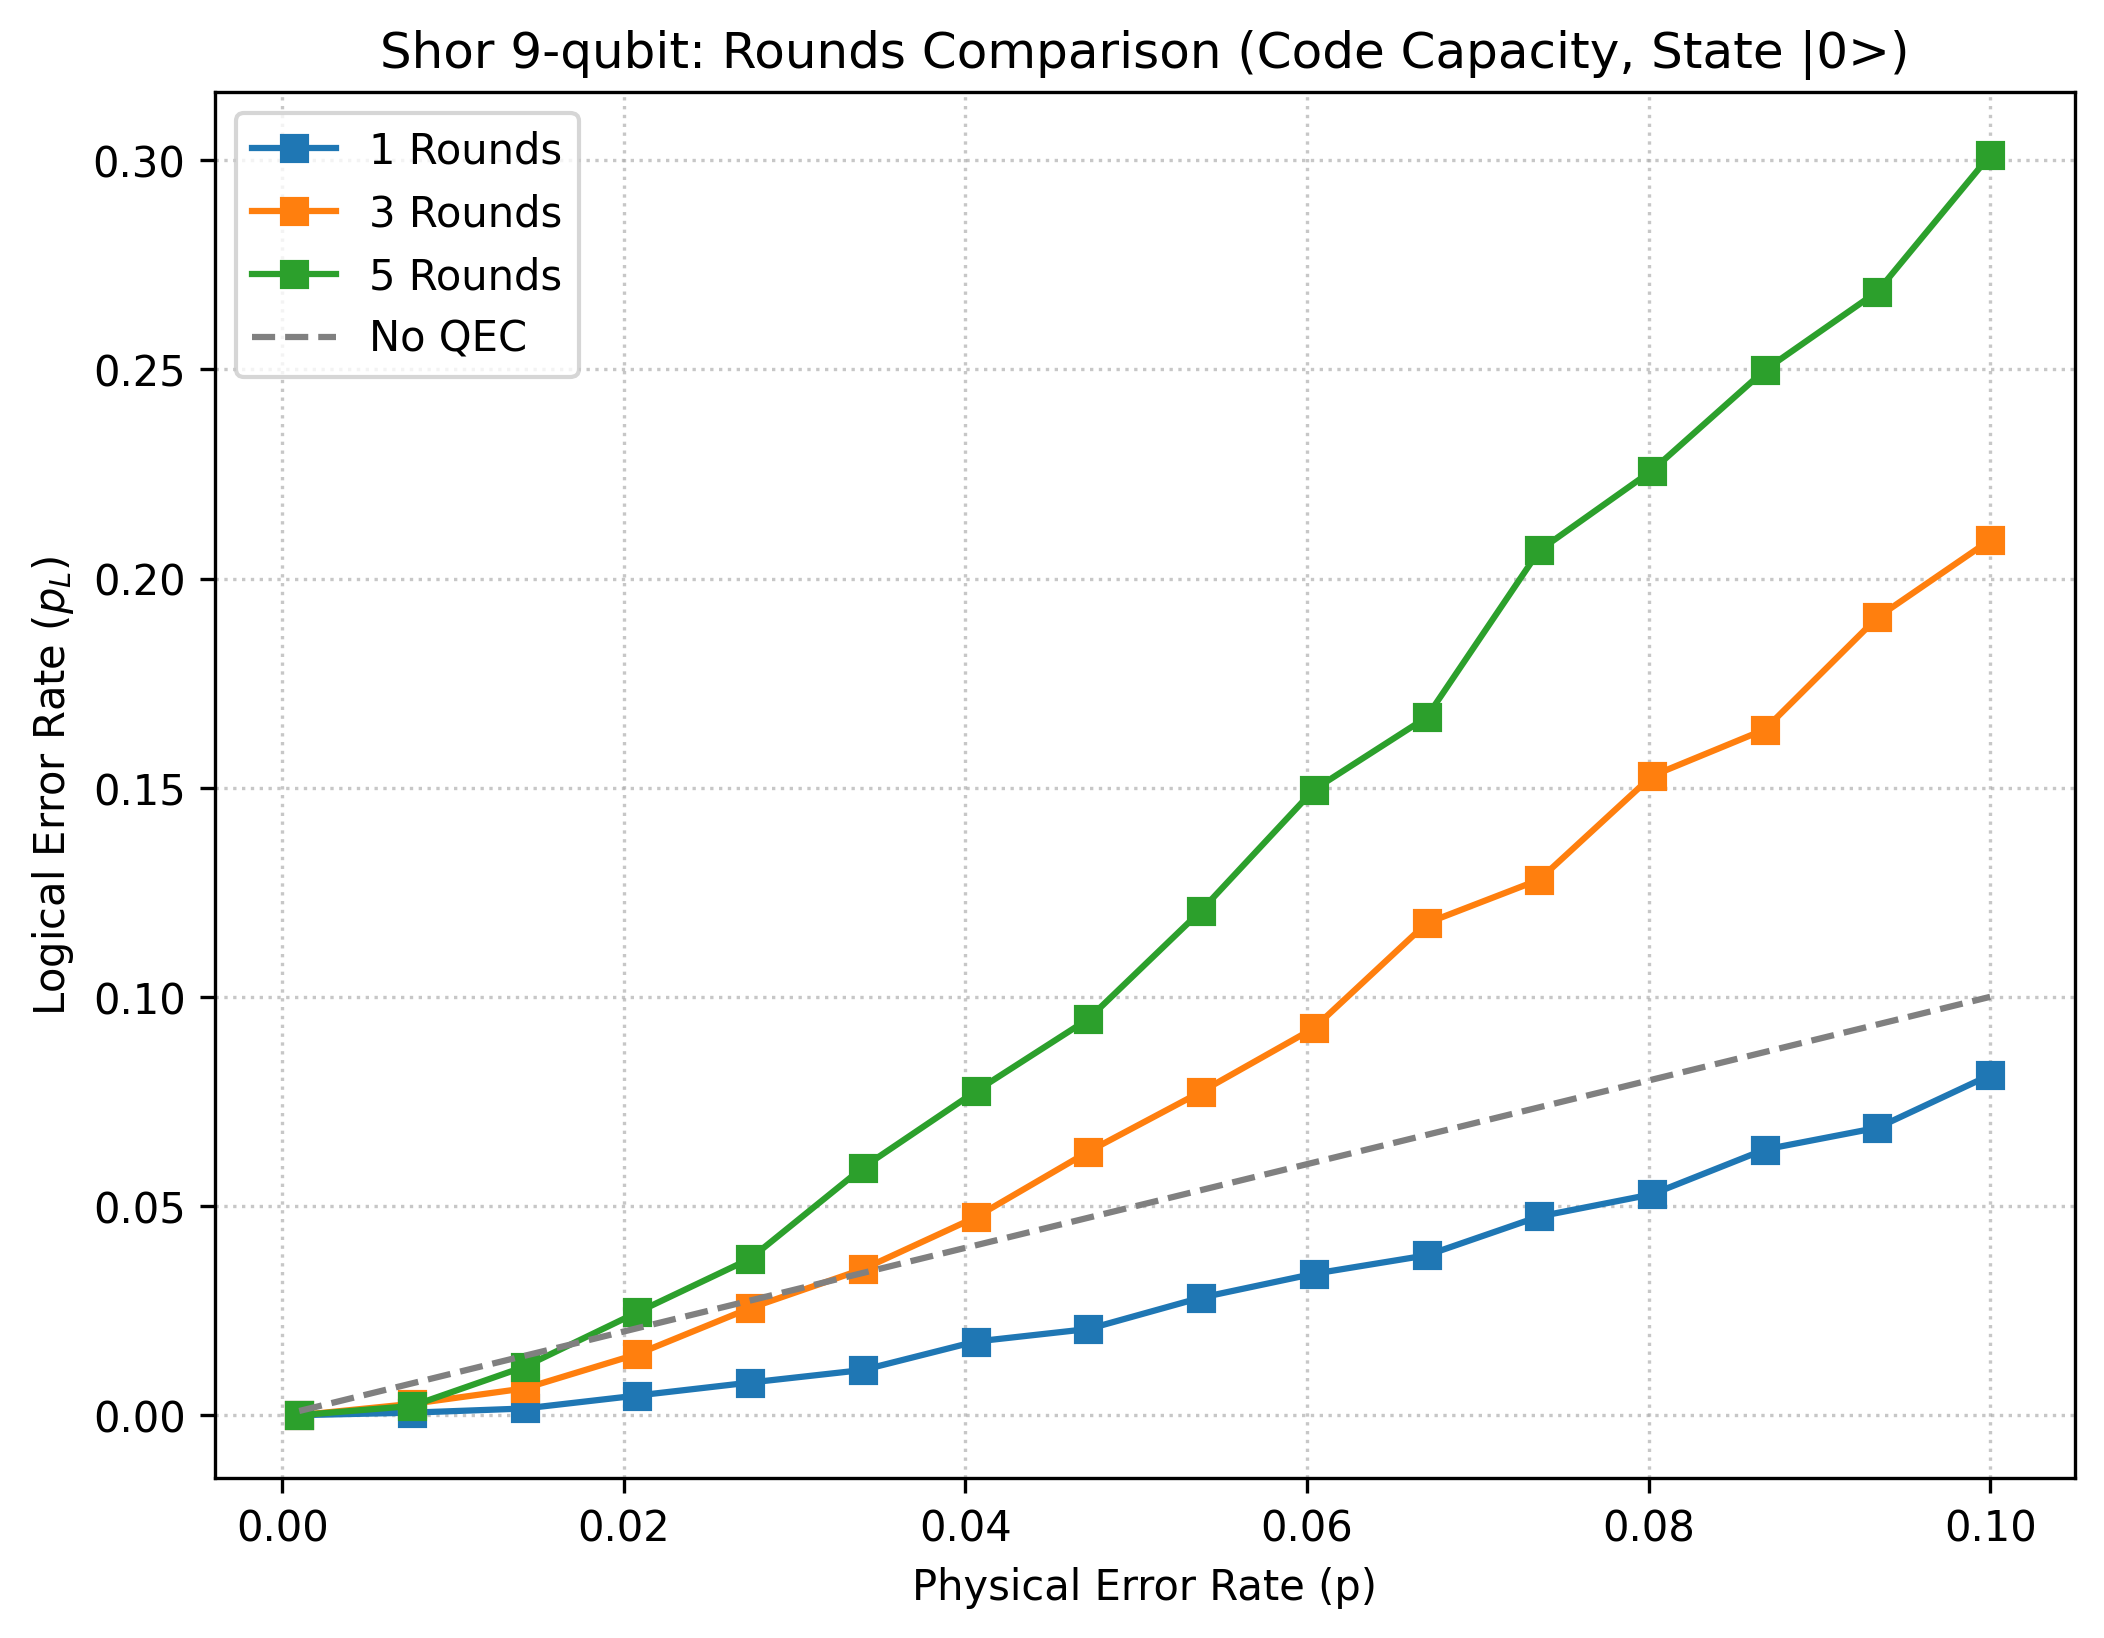
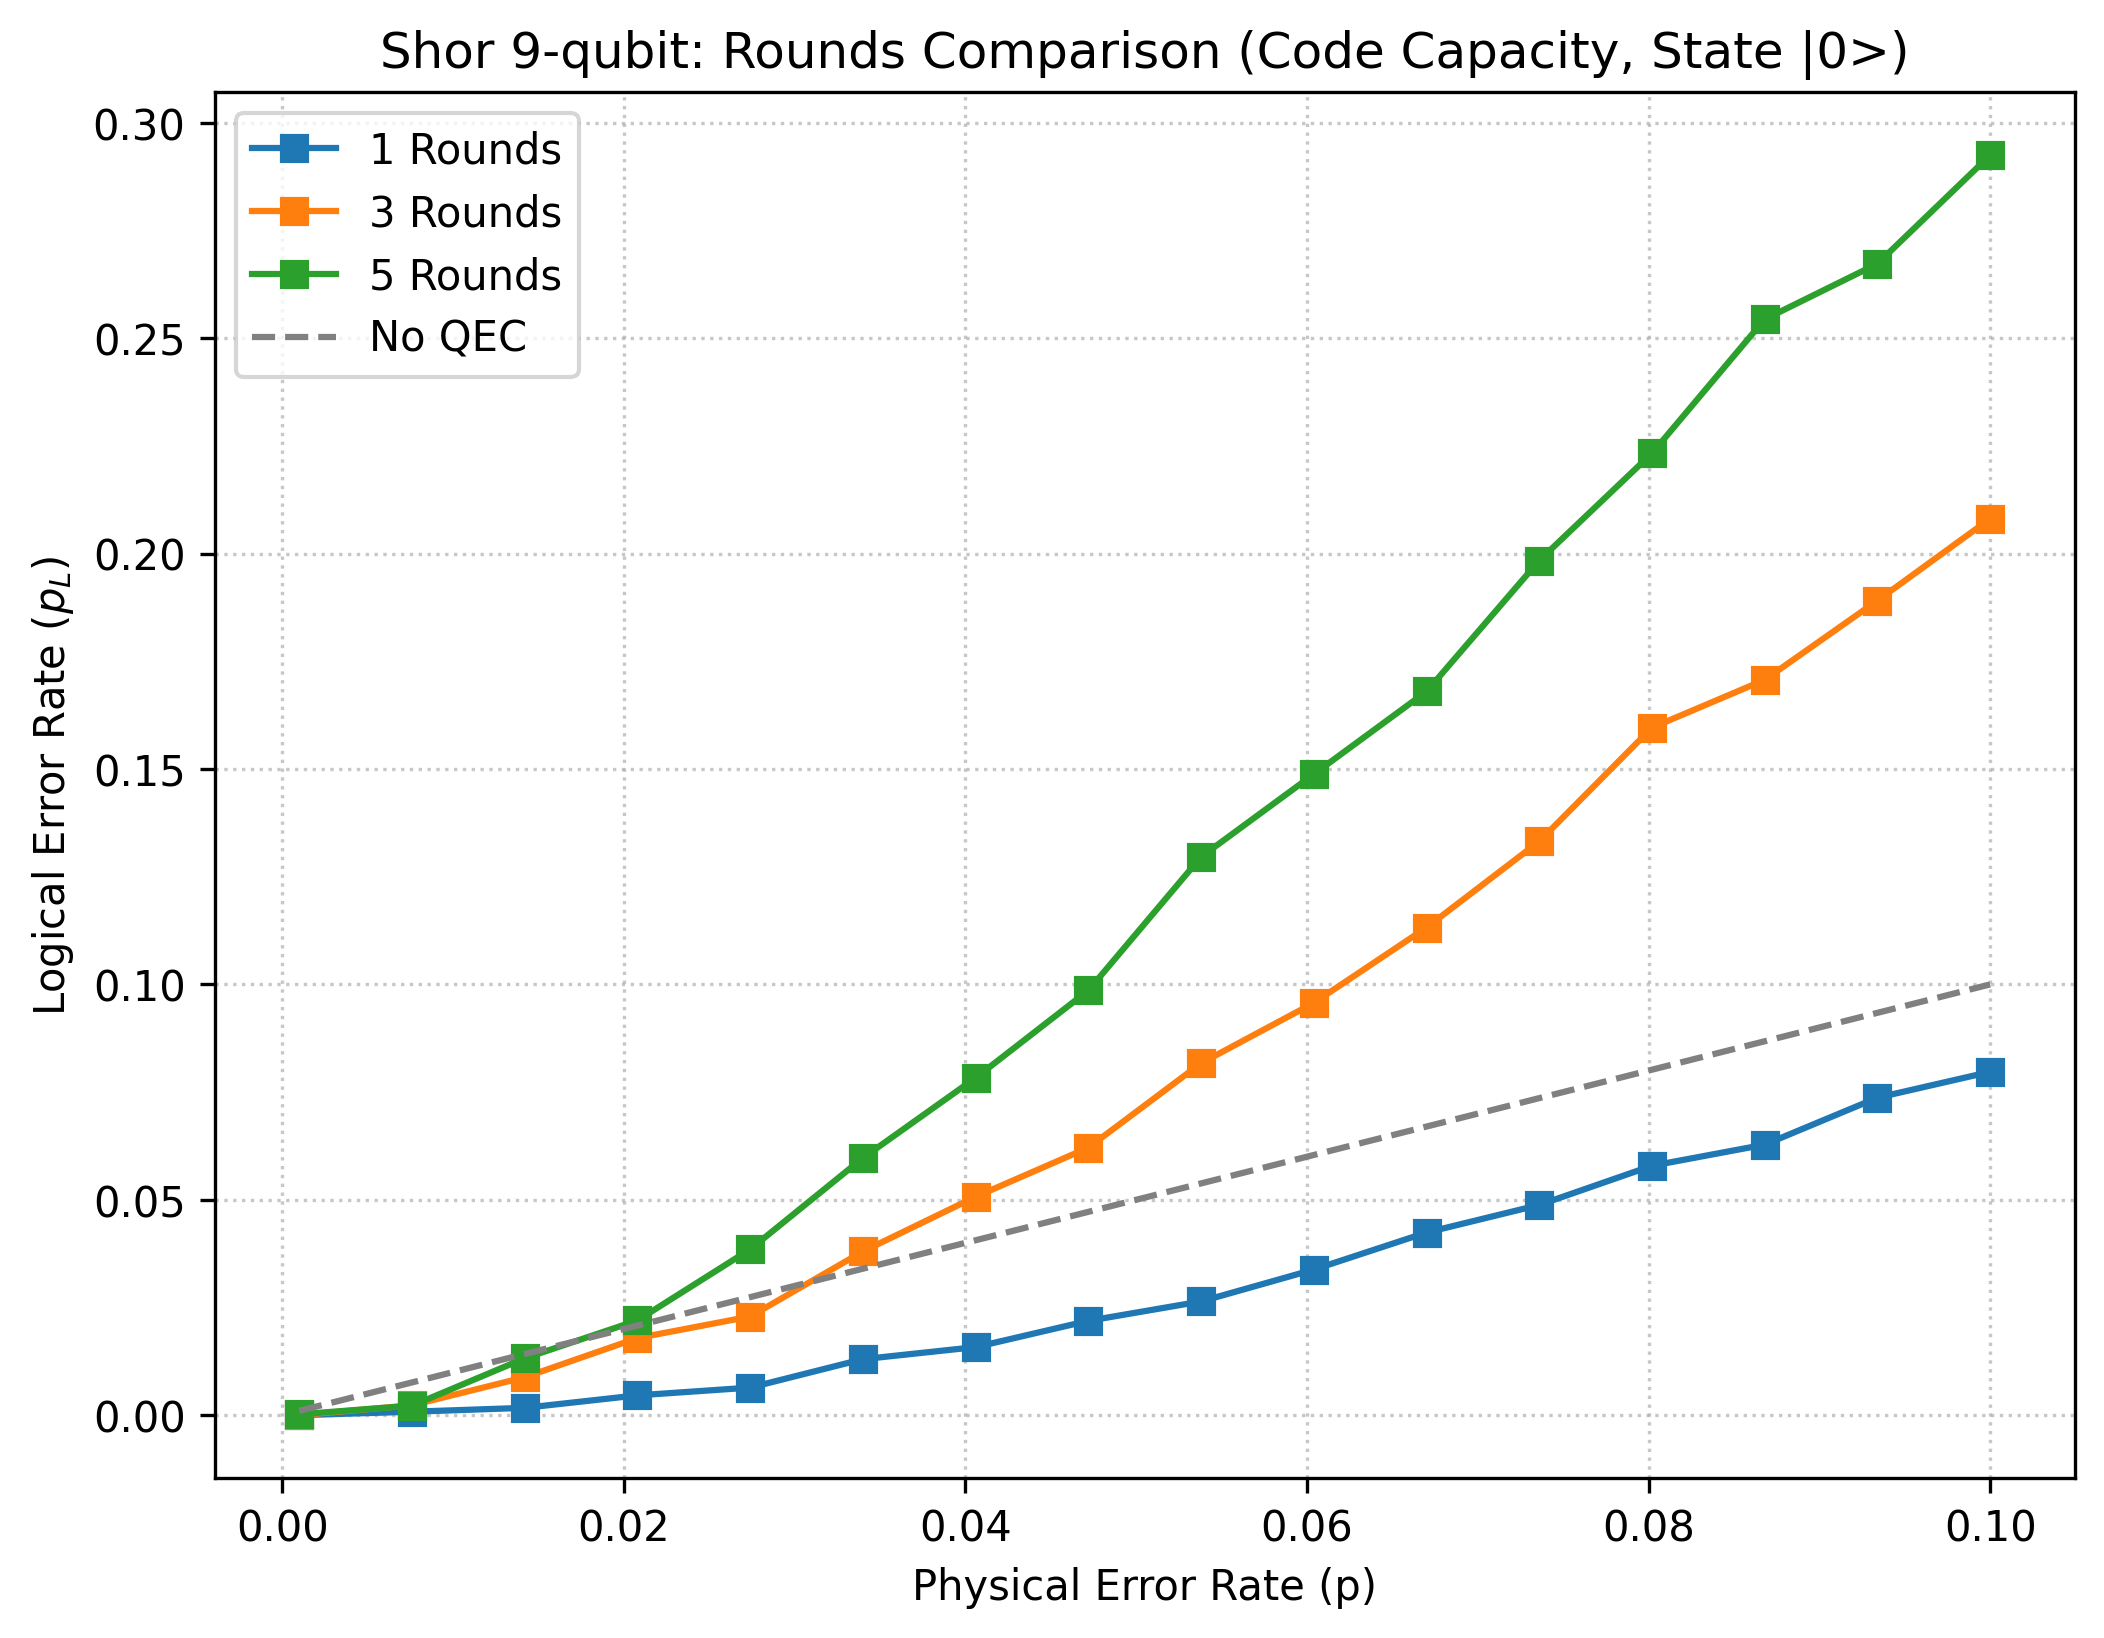
PArameter order for noise models to be consistent with thesis chapter 3

diff --git a/src/chapter_5/s6_shor_9_code.py b/src/chapter_5/s6_shor_9_code.py
@@ -121,7 +121,7 @@ def sample_shor_code_mwpm(shots=10000, rounds=1, states=["0"], p_rates=None, noi
     """General purpose sampling for Shor code MWPM decoding."""
     if p_rates is None: p_rates = np.linspace(0.01, 0.12, 8)
     l_rates = []
-    r_data, r_gate, r_measure = noise_ratios
+    r_data, r_measure, r_gate = noise_ratios
     
     for p in p_rates:
         errors = 0
@@ -150,7 +150,7 @@ def run_shor_simulations(shots: int = 2000):
     print("\n--- Simulation: Noise Models (1 Round, State |0>) ---")
     models = {
         "L1: $E_{data}$": (1, 0, 0),
-        "L2: $E_{data} + E_{meas}$": (1, 0, 1),
+        "L2: $E_{data} + E_{meas}$": (1, 1, 0),
         "L3: $E_{data} + E_{meas} + E_{gates}$": (1, 1, 1)
     }
     for label, ratios in models.items():

diff --git a/src/chapter_5/s4_mwpm_noise.py b/src/chapter_5/s4_mwpm_noise.py
@@ -11,7 +11,7 @@ def sample_repetition_code_mwpm(distance: int = 3, shots: int = 10000, p_rates: 
         p_rates = np.linspace(0.01, 0.15, 10)
     logical_error_rates = []
 
-    data_r, clifford_r, meas_r = noise_model
+    data_r, meas_r, clifford_r = noise_model
 
     for p in p_rates:
         # Define the circuit